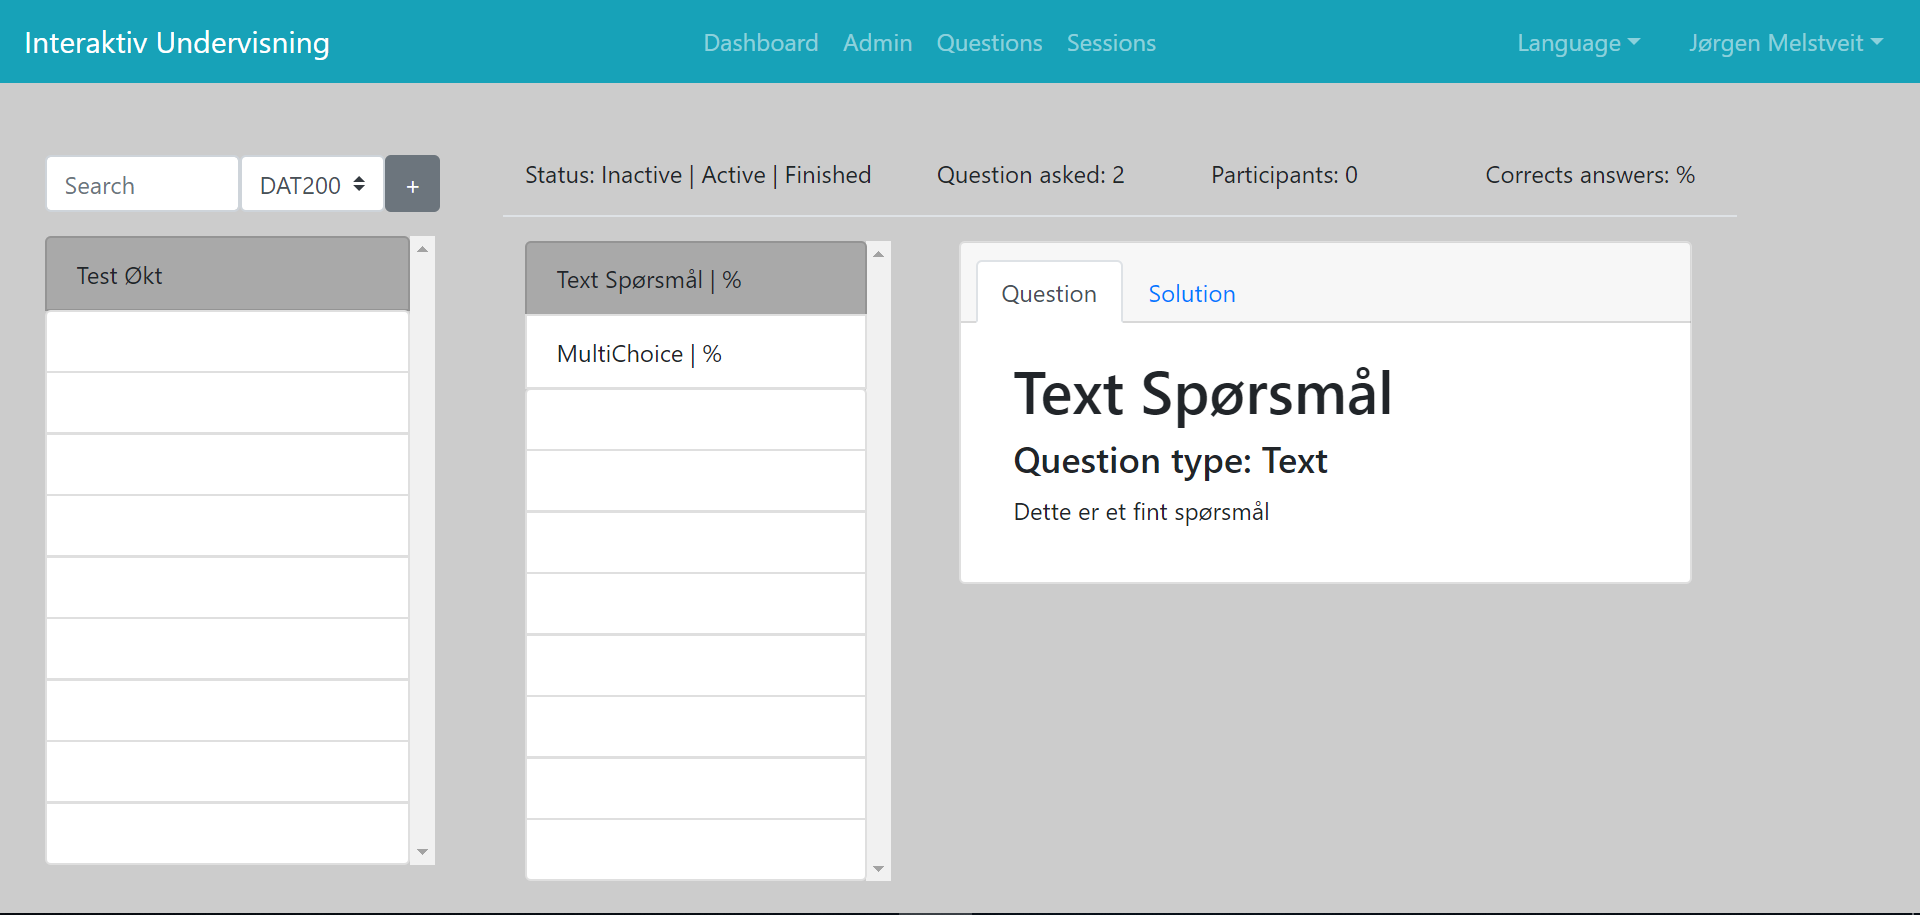
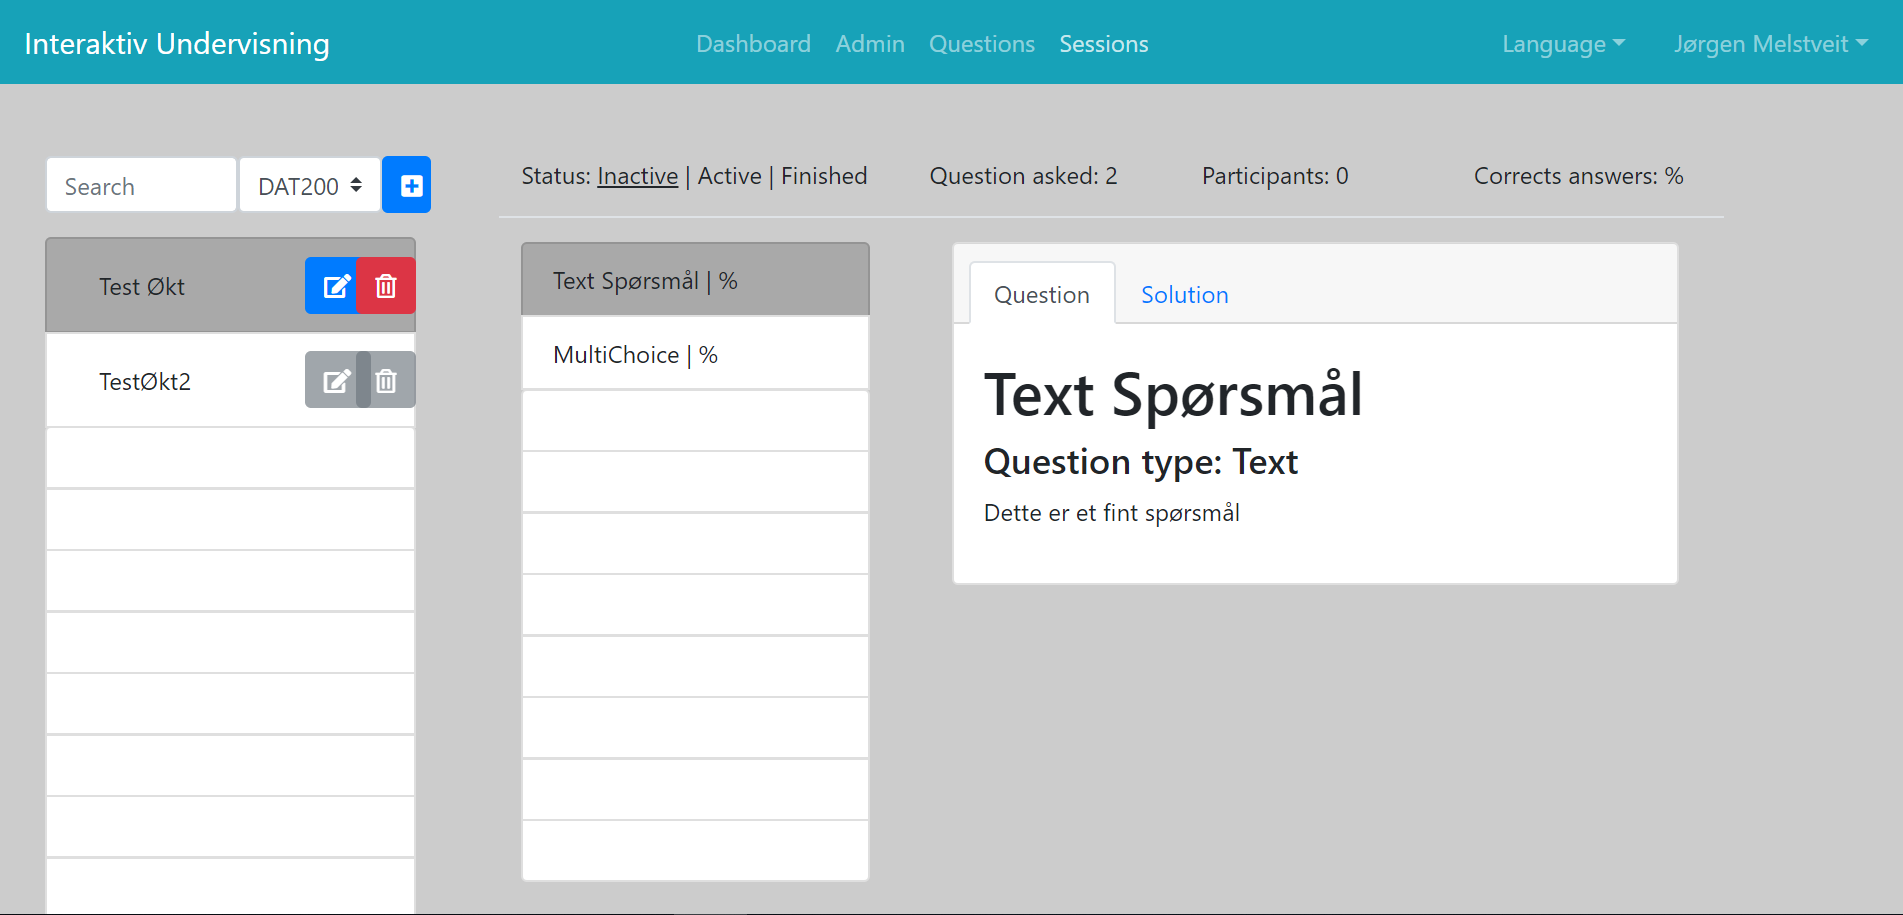
edited sessionpage missing a photo

diff --git a/Rapport/sections/construction/applicationGuide/sessionPage.tex b/Rapport/sections/construction/applicationGuide/sessionPage.tex
@@ -1,18 +1,24 @@
 \subsection{Session page}
-To create a session the user must first reach the Sessions component, which can be accessed by clicking on the “Sessions” button on the navbar. The session page will have the URL /admin/sessions. A session cannot be created until both a course and a question are present in the database. Therefore, the user will have to visit both the dashboard and the question page first, before accessing the session page. In the figure \ref{fig:sessionPage} shows the session page, in this figure a session has already been created called “Test Økt”. Since there is a session in the database that has a few questions. The Session component is visible in the Sessions component on the right side of the page. If there are no sessions for the chosen course, then only the Sessions component will be displayed on the page. Although if this is the case, then the Sessions component will not have any sessions in the list.
+To create a session the user must first reach the Sessions component, which can be accessed through the “Sessions” button on the navbar. The session page has the URL /admin/sessions. A session cannot be created until both a course and a question are present in the database. Therefore, the user should visit both the dashboard and the question page, before accessing the session page. The figure \ref{fig:sessionPage} shows the session page, in this figure 2 sessions has already been created called “Test Økt” and “TestØkt2”. Since there is a session in the database. 
+
+The Session component is visible in the Sessions component on the right side of the page. The Session component contains a search bar and a select box identical to the ones on the question page. The component also contains a list that includes all the current sessions for the chosen subject. Like in the list on the question page, the list on the session page must send a socket emit message to the server in order to keep its session list updated. The list is updated whenever the Session component is loaded, a new session is created, or whenever the chosen course is changed. If there are no sessions for the chosen course, then only the Sessions component is displayed on the page. Although if this is the case, then the Sessions component is not going to have any sessions in the list.
 \\[11pt]
-The Session component contains a search bar and a select box identical to the ones in the question page. The component also contains a list that will include all the current sessions created for the chosen subject. Just like in the list on the question page, the list on the session page will send a socket emit message to the server in order to keep its session list up to date. The list will be updated whenever the Session component is loaded, a new session is created or whenever the chosen course is changed. Once the Session component is visible, the information displayed on the component will vary depending on the current question being selected. The user can easily change between the available sessions and their questions by clicking on their name. On figure \ref{fig:sessionPage} you can see that the session “Test Økt” has opened the question “Text Question”. 
+Once the Session component is visible, the information displayed on the component varies depending on the current question being selected. The user can easily change between the available sessions and their questions by clicking on them. On figure \ref{fig:sessionPage} you can see that the session “Test Økt” has opened the question “Text Question”. 
 \\[11pt]
-The information displayed on the Session component comes from a component by the name DisplayQuestion. The DisplayQuestion is a component that is used whenever an admin is going to watch question information in the same style as in an active session. Essentially the component is used on the session page and on the user profile page. The DisplayQuestion component uses a vue card, which makes it easier to toggle between showing the question information and the question's solution.  The DisplayQuestion will contain components for solution and answer for each question type, but only one of these components will be used at a time. The DisplayQuestion component has to accommodate for the fact that some of the question types require the GraphDrawer to visually display their solution object. This component will always display what type of question the shown question is. This is done so that the user will know what type of question the question is. This is done to avoid confusing the different question types, as some of the question types have similar set up for the GraphDrawer.
+The information displayed on the Session component comes from a component by the name DisplayQuestion. The DisplayQuestion is a component that is used whenever an admin is going to watch question information in the same style as it would look in an active session. Essentially the component is used on the session page and on the user profile page. The DisplayQuestion component uses a vue-card, which makes it easier to toggle between showing the question information or the question's solution. There is a component for the answer object and a component for the solution object for each question type in the DisplayQuestion component. Only one of these components can be used at a time. The DisplayQuestion component must accommodate for the fact that some of the question types require the GraphDrawer to visually display their solution object. The DisplayQuestion component needs to display the shown question’s type. This is done to avoid confusing users with certain question types, as some of the question types have similar format for the GraphDrawer.
 \begin{figure}[H]
 	\includegraphics[width=0.80\linewidth]{sessionPage}
 	\caption{This figure display the session page. In the image the user is currently checking out the session Test Økt. The Session and DisplayQuestion components are both visible to the right of the image. Currently the Text Spørsmål is selected and the DisplayQuestion is showing its basic information. Such as the title, description and question type.}
 	\label{fig:sessionPage}
 \end{figure}
 \noindent
-Whenever the user wants to create a new session the user must simply click on the button labelled with a “+”. Once this is done, a component EditSession will appear. This component will display all the available question of the chosen course using a vue modal. Similar to the EditQuestion component, the EditSession component has a data object called newSession. This object should have all the values needed for the server to add a new session to the database. The current course should have already been chosen at this point, therefore the course variable in the newSession object should already have been assigned with this course value. This value is used by EditSession component whenever it sends a socket emit to the server, asking the server for all the questions in the given course. The EditSession component will allow the user to give the session a title and add a question to the session. Once a user has clicked on one of the questions, the question will be added to the questions array in the newSession object. The content of the questions array is displayed on the EditSession component under the previous list, and it will react on any changes done to the array. This is noticeable in the figure \ref{fig:editSessionComponent}, where you can see the Text Question has been added to the list under the questions list. Once a question is visible in this way, it means the question will be part of the newly created session. Of course, nothing is stored on the server until the user has clicked on the button with the label “Ok”. When the button is pressed the EditQuestion will send a socket emit with the newSession object to the server. The server collects the objects and the information is used to insert a new session into the Session database table. Afterwards all the questions in the questions array will be linked to the session in another database table in between the Session and Questions tables called the SessionsHasQuestion. Finally, all the questions will have their status be changed to active. This is done so that the questions in the session no longer can be deleted in the questions list. When everything is done the server will send a emit response back to the client. The EditSession component should be closed and the Sessions component will react to the emit response by sending a new socket emit back to the server, in order to update its session list. Once the server respond with the updated session content, the list on the Session component should include the newly created session.  
+To create a new session, the EditSession component must first be opened. This is done by having the user click on the button with the “+” label. 
+This component displays all the available questions of the chosen course using a vue-modal. Like the EditQuestion component, the EditSession component has a data object called newSession. This object should have all the values needed for the server to create a new session and add it to the database. The current course should have already been chosen at this point, therefore the course variable in the newSession object have been assigned with this course value. This value is used by EditSession component whenever it sends a socket emit to the server, asking the server for all the questions in the given course. The EditSession component allows the user to give the session a title and add a question to the session. Once a user has chosen one of the questions, the question is added to the questions array in the newSession object. The content of the questions array is displayed on the EditSession component under the previous list, and it reacts to any changes done to the array. This is noticeable in the figure \ref{fig:editSessionComponent}, where you can see the Text Question has been added to the list under the questions list. Once a question is visible in this way, it means the question is a part of the newly created session. Of course, nothing is stored on the server until the user has confirmed its changes with the button labeled “Ok”. When the button is pressed the EditQuestion sends a socket emit with the newSession object to the server. The server collects the objects and the information is used to insert a new session into the Session database table. Afterwards all the questions in the questions array are linked to the session in another database table in between the Session and Questions tables called the SessionsHasQuestion. When everything is done the server sends a emit response back to the client. The EditSession component should be closed and the Sessions component reacts to the emit response by sending a new socket emit back to the server, in order to update its session list. Once the server responds with the updated session content, the list on the Session component should include the newly created session.  
 \begin{figure}[H]
 	\includegraphics[width=0.80\linewidth]{createANewSession}
 	\caption{This figure displays an image of the EditSession component. In the image the user is planning on creating a new session by the name of Text Økt. The image also shows the user having clicked on the Text Spørsmål, which now have been added to the list at the bottom of the page.}
 	\label{fig:editSessionComponent}
 \end{figure}
+\noindent
+It is also possible to edit or delete existing sessions, but only if their status is set to “Inactive”. The sessions status is visible on the Session component, where the current session status is the status that is visibly underlined. The status will remain “Inactive” as long as its not initialized. When an admin or student assistant starts a waiting room for a session. The status changes to “Active”, and it is no longer possible to edit or delete this session. Once a session is finished and all the questions have been answered, the status is changed to “Finished”. If an admin user or student assistant decides to use this session again, then the status is changed back to “Active” again until the session is finished. The reason for not allowing any users to edit or delete active sessions are the same for not allowing users the ability to edit or delete questions once they’ve been assigned to a session. Deleting or editing a session after use would affect the previous session results for both the teacher and students. If the status is no longer “Inactive” the background color to the edit and delete buttons are changed to grey. This is an indication that these buttons are no longer to be used. If a user still tries to click on the buttons, the user is informed that it is no longer possible to use this functionality. Using the edit functionality works a lot like it did for the editing questions. The EditQuestion component is again used, but all the data previously saved for the chosen session are filled in the component. Any changes done to the session won’t apply until the user confirms his action using the button labelled “OK”. On the server side, the server does not check for validation or create any solutions which are only used for adding/editing questions. It instead goes directly to using the SQL command update for updating an existing session in the database or the insert command the inserting a new session into the database. Removing a session simply sends a socket emit to the server asking the server to delete the chosen session from the database. After the session is deleted from the database, the list in the Sessions component is updated again, and the chosen session should no longer be visible on the page.
+
